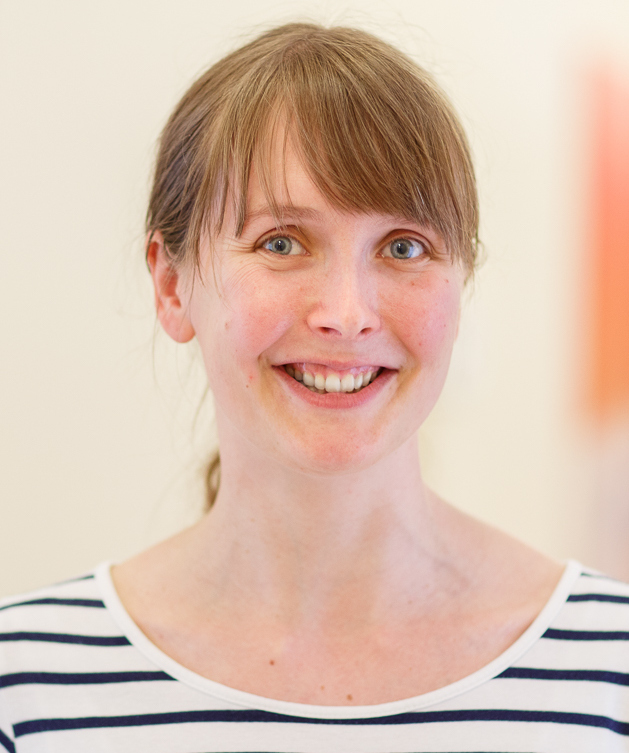
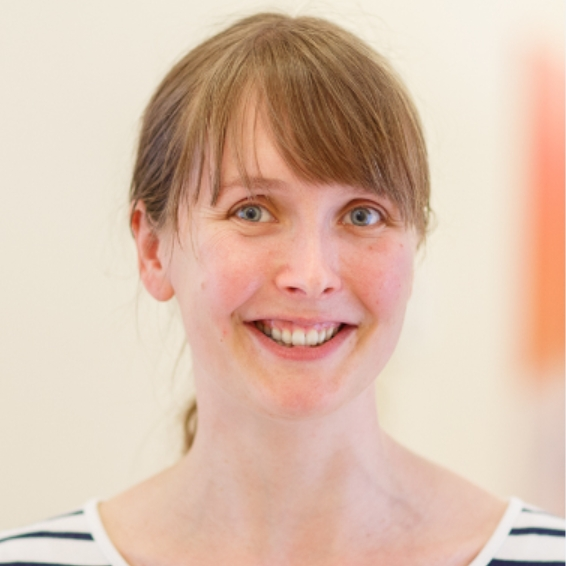
pridani rozeru do html obrazku

diff --git a/index.html b/index.html
@@ -53,7 +53,7 @@ Tip: Webdesign In 4 Minutes https://jgthms.com/web-design-in-4-minutes/
 
   <h2>Kdo je Maya?</h2>
 
-  <img src="Maya Kopecka.jpg" alt="Maya Veselá Kopecká">
+  <img src="Maya Kopecka.jpg" alt="Maya Veselá Kopecká" style="width:220px;height:220px;">
 
   <p>Ahoj, jmenuji se Maya a při rodičovské jsem se rozhodla naučit vytvářet funkční webové stránky. Pracovala jsem dlouhé roky v marketingu, vedení redesignu webových projektů bylo vždy součástí mé agendy, ale nikdy jsem sama žádný web nevytvořila a to bych ráda změnila.
   </p>

diff --git a/style.css b/style.css
@@ -52,7 +52,7 @@ h2 {
 }
 
 body {
-  color: grey;
+  color: #555;
   background-color: #ebeeff;
   font-family: 'Montserrat', sans-serif;
   font-size: 20px;
@@ -69,7 +69,7 @@ body {
   height: 20%;
   border-radius: 50%;
   float: right;
-  margin: 10px 30px 30px 0;
+  margin: 10px 60px 40px 50px;
 }
 
 .kontakt {
